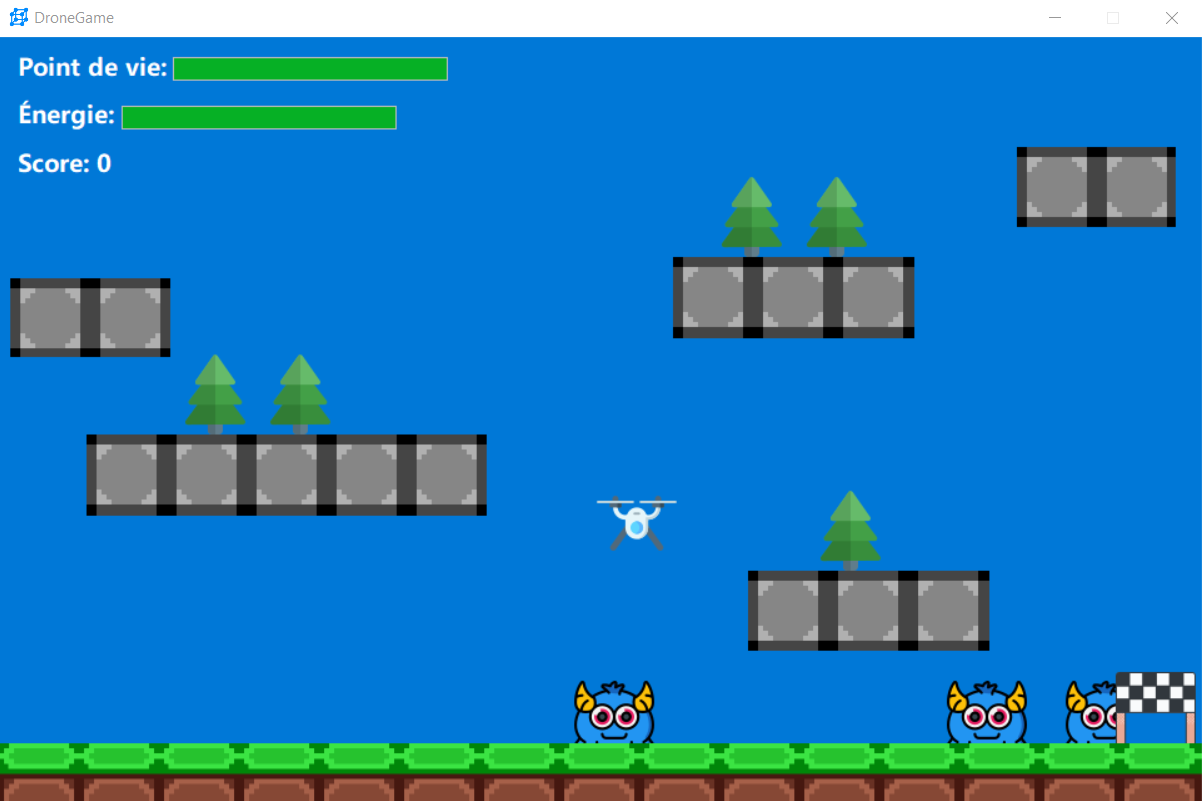
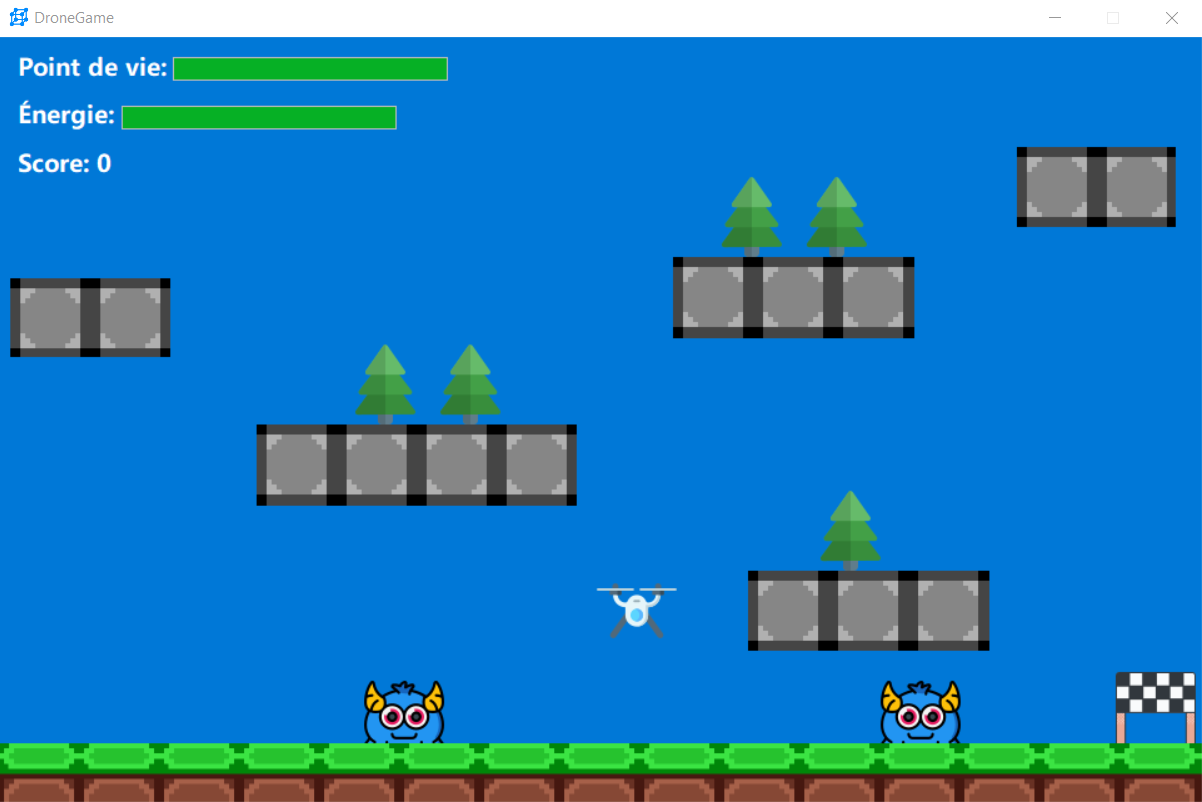
Update pattern + partial adjustments.

diff --git a/main.Designer.cs b/main.Designer.cs
@@ -65,186 +65,225 @@ namespace DroneGame
             ((System.ComponentModel.ISupportInitialize)(this.pineTree5)).BeginInit();
             ((System.ComponentModel.ISupportInitialize)(this.pineTree6)).BeginInit();
             this.SuspendLayout();
-            
+            // 
+            // HealthTextBar
+            // 
             this.HealthTextBar.AutoSize = true;
             this.HealthTextBar.Font = new System.Drawing.Font("Microsoft YaHei UI", 13.8F, System.Drawing.FontStyle.Bold, System.Drawing.GraphicsUnit.Point, ((byte)(0)));
             this.HealthTextBar.ForeColor = System.Drawing.SystemColors.Window;
-            this.HealthTextBar.Location = new System.Drawing.Point(10, 11);
-            this.HealthTextBar.Margin = new System.Windows.Forms.Padding(2, 0, 2, 0);
+            this.HealthTextBar.Location = new System.Drawing.Point(13, 14);
             this.HealthTextBar.Name = "HealthTextBar";
-            this.HealthTextBar.Size = new System.Drawing.Size(131, 26);
+            this.HealthTextBar.Size = new System.Drawing.Size(158, 31);
             this.HealthTextBar.TabIndex = 16;
             this.HealthTextBar.Tag = "HealthTextBarTag";
             this.HealthTextBar.Text = "Point de vie:";
-             
+            // 
+            // EnergyTextBar
+            // 
             this.EnergyTextBar.AutoSize = true;
             this.EnergyTextBar.Font = new System.Drawing.Font("Microsoft YaHei UI", 13.8F, System.Drawing.FontStyle.Bold, System.Drawing.GraphicsUnit.Point, ((byte)(0)));
             this.EnergyTextBar.ForeColor = System.Drawing.SystemColors.Window;
-            this.EnergyTextBar.Location = new System.Drawing.Point(10, 49);
-            this.EnergyTextBar.Margin = new System.Windows.Forms.Padding(2, 0, 2, 0);
+            this.EnergyTextBar.Location = new System.Drawing.Point(13, 60);
             this.EnergyTextBar.Name = "EnergyTextBar";
-            this.EnergyTextBar.Size = new System.Drawing.Size(89, 26);
+            this.EnergyTextBar.Size = new System.Drawing.Size(107, 31);
             this.EnergyTextBar.TabIndex = 17;
             this.EnergyTextBar.Tag = "EnergyTextBarTag";
             this.EnergyTextBar.Text = "Énergie:";
-             
+            // 
+            // ScoreBar
+            // 
             this.ScoreBar.AutoSize = true;
             this.ScoreBar.Font = new System.Drawing.Font("Microsoft YaHei UI", 13.8F, System.Drawing.FontStyle.Bold, System.Drawing.GraphicsUnit.Point, ((byte)(0)));
             this.ScoreBar.ForeColor = System.Drawing.SystemColors.Window;
-            this.ScoreBar.Location = new System.Drawing.Point(10, 88);
-            this.ScoreBar.Margin = new System.Windows.Forms.Padding(2, 0, 2, 0);
+            this.ScoreBar.Location = new System.Drawing.Point(13, 108);
             this.ScoreBar.Name = "ScoreBar";
-            this.ScoreBar.Size = new System.Drawing.Size(69, 26);
+            this.ScoreBar.Size = new System.Drawing.Size(85, 31);
             this.ScoreBar.TabIndex = 18;
             this.ScoreBar.Tag = "ScoreBarTag";
             this.ScoreBar.Text = "Score:";
-             
-            this.HealthBar.Location = new System.Drawing.Point(139, 16);
-            this.HealthBar.Margin = new System.Windows.Forms.Padding(2);
+            // 
+            // HealthBar
+            // 
+            this.HealthBar.Location = new System.Drawing.Point(185, 20);
+            this.HealthBar.Margin = new System.Windows.Forms.Padding(3, 2, 3, 2);
             this.HealthBar.Name = "HealthBar";
-            this.HealthBar.Size = new System.Drawing.Size(220, 19);
+            this.HealthBar.Size = new System.Drawing.Size(293, 23);
             this.HealthBar.TabIndex = 19;
-             
-            this.EnergyBar.Location = new System.Drawing.Point(98, 55);
-            this.EnergyBar.Margin = new System.Windows.Forms.Padding(2);
+            // 
+            // EnergyBar
+            // 
+            this.EnergyBar.Location = new System.Drawing.Point(131, 68);
+            this.EnergyBar.Margin = new System.Windows.Forms.Padding(3, 2, 3, 2);
             this.EnergyBar.Name = "EnergyBar";
-            this.EnergyBar.Size = new System.Drawing.Size(220, 19);
+            this.EnergyBar.Size = new System.Drawing.Size(293, 23);
             this.EnergyBar.TabIndex = 20;
-            
+            // 
+            // Clock
+            // 
             this.Clock.Enabled = true;
             this.Clock.Interval = 20;
             this.Clock.Tick += new System.EventHandler(this.clockEvent);
-             
+            // 
+            // PositionDetector
+            // 
             this.PositionDetector.Enabled = true;
             this.PositionDetector.Interval = 4000;
             this.PositionDetector.Tick += new System.EventHandler(this.PositionChecker);
-             
+            // 
+            // pineTree1
+            // 
             this.pineTree1.Image = global::DroneGame.Properties.Resources.pine_tree;
-            this.pineTree1.Location = new System.Drawing.Point(141, 254);
-            this.pineTree1.Margin = new System.Windows.Forms.Padding(2);
+            this.pineTree1.Location = new System.Drawing.Point(369, 303);
+            this.pineTree1.Margin = new System.Windows.Forms.Padding(3, 2, 3, 2);
             this.pineTree1.Name = "pineTree1";
             this.pineTree1.Size = new System.Drawing.Size(64, 64);
             this.pineTree1.SizeMode = System.Windows.Forms.PictureBoxSizeMode.AutoSize;
             this.pineTree1.TabIndex = 30;
             this.pineTree1.TabStop = false;
             this.pineTree1.Tag = "pineTree";
-            
+            // 
+            // grass
+            // 
             this.grass.BackgroundImage = global::DroneGame.Properties.Resources.grass;
-            this.grass.Location = new System.Drawing.Point(0, 565);
-            this.grass.Margin = new System.Windows.Forms.Padding(2);
+            this.grass.Location = new System.Drawing.Point(0, 695);
+            this.grass.Margin = new System.Windows.Forms.Padding(3, 2, 3, 2);
             this.grass.Name = "grass";
-            this.grass.Size = new System.Drawing.Size(964, 50);
+            this.grass.Size = new System.Drawing.Size(1285, 62);
             this.grass.TabIndex = 29;
             this.grass.TabStop = false;
-            
+            // 
+            // Drone
+            // 
             this.Drone.Image = global::DroneGame.Properties.Resources.drone;
-            this.Drone.Location = new System.Drawing.Point(478, 427);
-            this.Drone.Margin = new System.Windows.Forms.Padding(2);
+            this.Drone.Location = new System.Drawing.Point(637, 526);
+            this.Drone.Margin = new System.Windows.Forms.Padding(3, 2, 3, 2);
             this.Drone.Name = "Drone";
             this.Drone.Size = new System.Drawing.Size(64, 64);
             this.Drone.SizeMode = System.Windows.Forms.PictureBoxSizeMode.AutoSize;
             this.Drone.TabIndex = 28;
             this.Drone.TabStop = false;
-             
+            // 
+            // Flag
+            // 
             this.Flag.Image = global::DroneGame.Properties.Resources.finish_line;
-            this.Flag.Location = new System.Drawing.Point(893, 508);
-            this.Flag.Margin = new System.Windows.Forms.Padding(2);
+            this.Flag.Location = new System.Drawing.Point(1191, 625);
+            this.Flag.Margin = new System.Windows.Forms.Padding(3, 2, 3, 2);
             this.Flag.Name = "Flag";
             this.Flag.Size = new System.Drawing.Size(64, 64);
             this.Flag.SizeMode = System.Windows.Forms.PictureBoxSizeMode.AutoSize;
             this.Flag.TabIndex = 27;
             this.Flag.TabStop = false;
             this.Flag.Tag = "finishFlag";
-            
+            // 
+            // stoneBlockE
+            // 
             this.stoneBlockE.BackgroundImage = global::DroneGame.Properties.Resources.stone;
-            this.stoneBlockE.Location = new System.Drawing.Point(814, 88);
-            this.stoneBlockE.Margin = new System.Windows.Forms.Padding(2);
+            this.stoneBlockE.Location = new System.Drawing.Point(1085, 108);
+            this.stoneBlockE.Margin = new System.Windows.Forms.Padding(3, 2, 3, 2);
             this.stoneBlockE.Name = "stoneBlockE";
-            this.stoneBlockE.Size = new System.Drawing.Size(127, 64);
+            this.stoneBlockE.Size = new System.Drawing.Size(169, 79);
             this.stoneBlockE.TabIndex = 25;
             this.stoneBlockE.TabStop = false;
             this.stoneBlockE.Tag = "Patern";
-             
+            // 
+            // stoneBlockA
+            // 
             this.stoneBlockA.BackgroundImage = global::DroneGame.Properties.Resources.stone;
-            this.stoneBlockA.Location = new System.Drawing.Point(9, 193);
-            this.stoneBlockA.Margin = new System.Windows.Forms.Padding(2);
+            this.stoneBlockA.Location = new System.Drawing.Point(12, 238);
+            this.stoneBlockA.Margin = new System.Windows.Forms.Padding(3, 2, 3, 2);
             this.stoneBlockA.Name = "stoneBlockA";
-            this.stoneBlockA.Size = new System.Drawing.Size(128, 63);
+            this.stoneBlockA.Size = new System.Drawing.Size(171, 78);
             this.stoneBlockA.TabIndex = 24;
             this.stoneBlockA.TabStop = false;
             this.stoneBlockA.Tag = "Patern";
-             
+            // 
+            // stoneBlockC
+            // 
             this.stoneBlockC.BackgroundImage = global::DroneGame.Properties.Resources.stone;
-            this.stoneBlockC.Location = new System.Drawing.Point(539, 176);
-            this.stoneBlockC.Margin = new System.Windows.Forms.Padding(2);
+            this.stoneBlockC.Location = new System.Drawing.Point(719, 217);
+            this.stoneBlockC.Margin = new System.Windows.Forms.Padding(3, 2, 3, 2);
             this.stoneBlockC.Name = "stoneBlockC";
-            this.stoneBlockC.Size = new System.Drawing.Size(193, 65);
+            this.stoneBlockC.Size = new System.Drawing.Size(257, 80);
             this.stoneBlockC.TabIndex = 23;
             this.stoneBlockC.TabStop = false;
             this.stoneBlockC.Tag = "Patern";
-            
+            // 
+            // stoneBlockD
+            // 
             this.stoneBlockD.BackgroundImage = global::DroneGame.Properties.Resources.stone;
-            this.stoneBlockD.Location = new System.Drawing.Point(599, 427);
-            this.stoneBlockD.Margin = new System.Windows.Forms.Padding(2);
+            this.stoneBlockD.Location = new System.Drawing.Point(799, 526);
+            this.stoneBlockD.Margin = new System.Windows.Forms.Padding(3, 2, 3, 2);
             this.stoneBlockD.Name = "stoneBlockD";
-            this.stoneBlockD.Size = new System.Drawing.Size(193, 64);
+            this.stoneBlockD.Size = new System.Drawing.Size(257, 79);
             this.stoneBlockD.TabIndex = 22;
             this.stoneBlockD.TabStop = false;
             this.stoneBlockD.Tag = "Patern";
-            
+            // 
+            // stoneBlockB
+            // 
             this.stoneBlockB.BackgroundImage = global::DroneGame.Properties.Resources.stone;
-            this.stoneBlockB.Location = new System.Drawing.Point(70, 318);
-            this.stoneBlockB.Margin = new System.Windows.Forms.Padding(2);
+            this.stoneBlockB.Location = new System.Drawing.Point(274, 382);
+            this.stoneBlockB.Margin = new System.Windows.Forms.Padding(3, 2, 3, 2);
             this.stoneBlockB.Name = "stoneBlockB";
-            this.stoneBlockB.Size = new System.Drawing.Size(320, 65);
+            this.stoneBlockB.Size = new System.Drawing.Size(342, 80);
             this.stoneBlockB.TabIndex = 21;
             this.stoneBlockB.TabStop = false;
             this.stoneBlockB.Tag = "Patern";
-           
+            // 
+            // pineTree3
+            // 
             this.pineTree3.Image = global::DroneGame.Properties.Resources.pine_tree;
-            this.pineTree3.Location = new System.Drawing.Point(649, 363);
-            this.pineTree3.Margin = new System.Windows.Forms.Padding(2);
+            this.pineTree3.Location = new System.Drawing.Point(865, 447);
+            this.pineTree3.Margin = new System.Windows.Forms.Padding(3, 2, 3, 2);
             this.pineTree3.Name = "pineTree3";
             this.pineTree3.Size = new System.Drawing.Size(64, 64);
             this.pineTree3.SizeMode = System.Windows.Forms.PictureBoxSizeMode.AutoSize;
             this.pineTree3.TabIndex = 32;
             this.pineTree3.TabStop = false;
             this.pineTree3.Tag = "pineTree";
-             
+            // 
+            // pineTree4
+            // 
             this.pineTree4.Image = global::DroneGame.Properties.Resources.pine_tree;
-            this.pineTree4.Location = new System.Drawing.Point(570, 112);
-            this.pineTree4.Margin = new System.Windows.Forms.Padding(2);
+            this.pineTree4.Location = new System.Drawing.Point(760, 138);
+            this.pineTree4.Margin = new System.Windows.Forms.Padding(3, 2, 3, 2);
             this.pineTree4.Name = "pineTree4";
             this.pineTree4.Size = new System.Drawing.Size(64, 64);
             this.pineTree4.SizeMode = System.Windows.Forms.PictureBoxSizeMode.AutoSize;
             this.pineTree4.TabIndex = 33;
             this.pineTree4.TabStop = false;
             this.pineTree4.Tag = "pineTree";
-            
+            // 
+            // pineTree5
+            // 
             this.pineTree5.Image = global::DroneGame.Properties.Resources.pine_tree;
-            this.pineTree5.Location = new System.Drawing.Point(209, 254);
-            this.pineTree5.Margin = new System.Windows.Forms.Padding(2);
+            this.pineTree5.Location = new System.Drawing.Point(460, 303);
+            this.pineTree5.Margin = new System.Windows.Forms.Padding(3, 2, 3, 2);
             this.pineTree5.Name = "pineTree5";
             this.pineTree5.Size = new System.Drawing.Size(64, 64);
             this.pineTree5.SizeMode = System.Windows.Forms.PictureBoxSizeMode.AutoSize;
             this.pineTree5.TabIndex = 34;
             this.pineTree5.TabStop = false;
             this.pineTree5.Tag = "pineTree";
-             
+            // 
+            // pineTree6
+            // 
             this.pineTree6.Image = global::DroneGame.Properties.Resources.pine_tree;
-            this.pineTree6.Location = new System.Drawing.Point(638, 112);
-            this.pineTree6.Margin = new System.Windows.Forms.Padding(2);
+            this.pineTree6.Location = new System.Drawing.Point(851, 138);
+            this.pineTree6.Margin = new System.Windows.Forms.Padding(3, 2, 3, 2);
             this.pineTree6.Name = "pineTree6";
             this.pineTree6.Size = new System.Drawing.Size(64, 64);
             this.pineTree6.SizeMode = System.Windows.Forms.PictureBoxSizeMode.AutoSize;
             this.pineTree6.TabIndex = 35;
             this.pineTree6.TabStop = false;
             this.pineTree6.Tag = "pineTree";
-             
-            this.AutoScaleDimensions = new System.Drawing.SizeF(6F, 13F);
+            // 
+            // DroneGameWindow
+            // 
+            this.AutoScaleDimensions = new System.Drawing.SizeF(8F, 16F);
             this.AutoScaleMode = System.Windows.Forms.AutoScaleMode.Font;
             this.BackColor = System.Drawing.SystemColors.Highlight;
-            this.ClientSize = new System.Drawing.Size(962, 612);
+            this.ClientSize = new System.Drawing.Size(1283, 753);
             this.Controls.Add(this.pineTree6);
             this.Controls.Add(this.pineTree5);
             this.Controls.Add(this.pineTree4);
@@ -265,7 +304,7 @@ namespace DroneGame
             this.Controls.Add(this.HealthTextBar);
             this.FormBorderStyle = System.Windows.Forms.FormBorderStyle.FixedSingle;
             this.Icon = ((System.Drawing.Icon)(resources.GetObject("$this.Icon")));
-            this.Margin = new System.Windows.Forms.Padding(2);
+            this.Margin = new System.Windows.Forms.Padding(3, 2, 3, 2);
             this.MaximizeBox = false;
             this.Name = "DroneGameWindow";
             this.StartPosition = System.Windows.Forms.FormStartPosition.CenterScreen;

diff --git a/main.cs b/main.cs
@@ -19,14 +19,14 @@ namespace DroneGame
             720,
             40,
             860,
-            300
+            210
         };
 
         int[] posYrandom = {
             370,
             137,
             31,
-            261
+            252
         };
 
         int monsterSpeed = 5;
@@ -156,7 +156,7 @@ namespace DroneGame
         private void shootMonster()
         {
             batteryLevel -= 5;
-            Projectiles projectiles = new Projectiles();
+            projectiles projectiles = new projectiles();
             projectiles.projectileLeft = Drone.Left + (Drone.Width / 2);
             projectiles.projectileHight = Drone.Top + (Drone.Height / 2);
             projectiles.launch(this);
@@ -305,11 +305,11 @@ namespace DroneGame
             foreach (Control entityProjectiles in this.Controls)
             {
 
-                if (entityProjectiles is PictureBox && (string)entityProjectiles.Tag == "projectileElement")
+                if (entityProjectiles is PictureBox && (string)entityProjectiles.Tag == "ProjectileTag")
                 {
                     foreach (Control entityMonster in this.Controls)
                     {
-                        if (entityProjectiles is PictureBox && (string)entityProjectiles.Tag == "projectileElement" && entityMonster is PictureBox && (string)entityMonster.Tag == "Monster")
+                        if (entityProjectiles is PictureBox && (string)entityProjectiles.Tag == "ProjectileTag" && entityMonster is PictureBox && (string)entityMonster.Tag == "Monster")
                         {
                             if (entityProjectiles.Bounds.IntersectsWith(entityMonster.Bounds))
                             {
@@ -346,7 +346,7 @@ namespace DroneGame
                     }
                 }
 
-                if (entityProjectiles is PictureBox && (string)entityProjectiles.Tag == "projectileElement")
+                if (entityProjectiles is PictureBox && (string)entityProjectiles.Tag == "ProjectileTag")
                 {
                     if (stoneBlockD.Bounds.IntersectsWith(entityProjectiles.Bounds) || stoneBlockB.Bounds.IntersectsWith(entityProjectiles.Bounds) || stoneBlockC.Bounds.IntersectsWith(entityProjectiles.Bounds) || stoneBlockA.Bounds.IntersectsWith(entityProjectiles.Bounds) || stoneBlockE.Bounds.IntersectsWith(entityProjectiles.Bounds))
                     {
@@ -377,9 +377,10 @@ namespace DroneGame
         {
             stopSpawn++;
             PictureBox monster = new PictureBox();
+            monster.SizeMode = PictureBoxSizeMode.AutoSize;
             monster.Image = Properties.Resources.monster;
             monster.Tag = "Monster";
-            monster.Left = randomNumber.Next(0, this.ClientSize.Width - 200);
+            monster.Left = randomNumber.Next(0, this.ClientSize.Width - 450);
             monster.Top = 515;
 
             monsterList.Add(monster);
@@ -407,7 +408,7 @@ namespace DroneGame
                     ((PictureBox)entityToRemoveOnGameOver).Dispose();
                     monsterList.Clear();
                 }
-                if (entityToRemoveOnGameOver is PictureBox && (string)entityToRemoveOnGameOver.Tag == "projectileElement")
+                if (entityToRemoveOnGameOver is PictureBox && (string)entityToRemoveOnGameOver.Tag == "ProjectileTag")
                 {
                     this.Controls.Remove(entityToRemoveOnGameOver);
                     ((PictureBox)entityToRemoveOnGameOver).Dispose();

diff --git a/Projectiles.cs b/Projectiles.cs
@@ -4,7 +4,7 @@ using System.Windows.Forms;
 
 namespace DroneGame
 {
-    public class Projectiles
+    public class projectiles
     {
         public int projectileLeft { get; set; }
         public int projectileHight { get; set; }
@@ -18,8 +18,8 @@ namespace DroneGame
         {
             projectileElement.BackColor = Color.Yellow;
             projectileElement.Size = new Size(5, 5);
-            projectileElement.Tag = "projectileElement";
-            projectileElement.Name = "Projectiles";
+            projectileElement.Tag = "ProjectileTag";
+            projectileElement.Name = "ProjectileName";
             projectileElement.Left = projectileLeft;
             projectileElement.Top = projectileHight;
             projectileElement.BringToFront();
